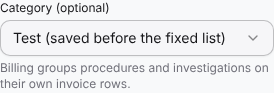
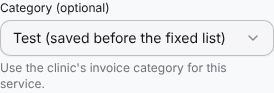
CAT-11: Ravi's review (help line makes no Billing promise yet, options after the form, trigger checks every listed name, HTTP rename test)
Claude-Session: https://claude.ai/code/session_01MHFmnVyVJEum6VMCHbKqEk

Changed region(s): [[0.0, 0.6667, 0.9927, 0.8172], [0.0, 0.8387, 0.4964, 0.9462]]

diff --git a/resources/js/pages/ClinicalService/Index.vue b/resources/js/pages/ClinicalService/Index.vue
@@ -78,27 +78,6 @@ const props = defineProps<{
 }>();
 
 const search = ref(props.filters.search);
-// CAT-11: a fixed list of categories. A category saved before the list stays as its own option, so editing other
-// fields of an older service never changes it.
-const categoryOptions = computed(() => {
-    const options = [
-        { value: '', label: 'No category' },
-        ...props.setup.serviceCategories.map((name) => ({
-            value: name,
-            label: name,
-        })),
-    ];
-    const current = form.category;
-
-    if (current !== '' && !props.setup.serviceCategories.includes(current)) {
-        options.push({
-            value: current,
-            label: `${current} (saved before the fixed list)`,
-        });
-    }
-
-    return options;
-});
 const status = ref(props.filters.status);
 const statusOptions = [
     { value: '', label: 'All statuses' },
@@ -135,6 +114,27 @@ const form = useForm({
         panel_default_rm: '',
         panel_overrides: [] as { panel_id: string; amount_rm: string }[],
     },
+});
+// CAT-11: a fixed list of categories. A category saved before the list stays as its own option, so editing other
+// fields of an older service never changes it.
+const categoryOptions = computed(() => {
+    const options = [
+        { value: '', label: 'No category' },
+        ...props.setup.serviceCategories.map((name) => ({
+            value: name,
+            label: name,
+        })),
+    ];
+    const current = form.category;
+
+    if (current !== '' && !props.setup.serviceCategories.includes(current)) {
+        options.push({
+            value: current,
+            label: `${current} (saved before the fixed list)`,
+        });
+    }
+
+    return options;
 });
 
 const openCreate = () => {
@@ -581,8 +581,8 @@ const toggleDescription = computed(() => {
                                     id="service-category-help"
                                     class="text-xs text-muted-foreground"
                                 >
-                                    Billing groups procedures and investigations
-                                    on their own invoice rows.
+                                    Use the clinic's invoice category for this
+                                    service.
                                 </p>
                                 <InputError
                                     id="service-category-error"

diff --git a/tests/Feature/Clinical/ClinicalServiceCategoriesTest.php b/tests/Feature/Clinical/ClinicalServiceCategoriesTest.php
@@ -75,6 +75,24 @@ class ClinicalServiceCategoriesTest extends ClinicalTestCase
         $this->assertFalse(ClinicalServiceCatalogueItem::query()->where('code', 'CAT11-HTTP')->exists());
     }
 
+    public function test_renaming_an_older_service_through_the_page_keeps_its_category(): void
+    {
+        $director = $this->actor('director');
+        $legacy = $this->legacyService($director->organisation_id, 'Synthetic old category');
+        $this->actingAs($director);
+
+        $this->patch(route('clinical-services.update', $legacy), [
+            'code' => $legacy->code, 'display_name' => 'Synthetic renamed through the page',
+            'order_unit' => $legacy->order_unit, 'category' => 'Synthetic old category',
+        ])->assertSessionHasNoErrors();
+        $this->assertSame('Synthetic old category', $legacy->fresh()->category);
+        $this->assertSame('Synthetic renamed through the page', $legacy->fresh()->display_name);
+
+        $this->patch(route('clinical-services.update', $legacy), ['category' => 'Another free text'])
+            ->assertSessionHasErrors(['category' => 'Choose a category from the list.']);
+        $this->assertSame('Synthetic old category', $legacy->fresh()->category);
+    }
+
     public function test_the_page_offers_the_fixed_list(): void
     {
         $this->actingAs($this->actor('director'));
@@ -97,9 +115,12 @@ class ClinicalServiceCategoriesTest extends ClinicalTestCase
         $this->assertRefused(fn () => DB::table('clinical_service_catalogue_items')->where('id', $legacy->id)->update(['category' => 'Another free text']));
         $this->assertRefused(fn () => $this->insertRow($director->organisation_id, 'CAT11-PG-BAD', 'Test'));
 
-        $this->insertRow($director->organisation_id, 'CAT11-PG-OK', 'Investigation(s)');
+        // Every name in ClinicalServiceCategories::NAMES must also pass the trigger (the two lists must stay equal).
+        foreach (ClinicalServiceCategories::NAMES as $index => $name) {
+            $this->insertRow($director->organisation_id, "CAT11-PG-OK-{$index}", $name);
+        }
         $this->insertRow($director->organisation_id, 'CAT11-PG-NULL', null);
-        $this->assertSame(2, DB::table('clinical_service_catalogue_items')->whereIn('code', ['CAT11-PG-OK', 'CAT11-PG-NULL'])->count());
+        $this->assertSame(count(ClinicalServiceCategories::NAMES) + 1, DB::table('clinical_service_catalogue_items')->where('code', 'like', 'CAT11-PG-%')->count());
     }
 
     /** @return array<string, mixed> */
